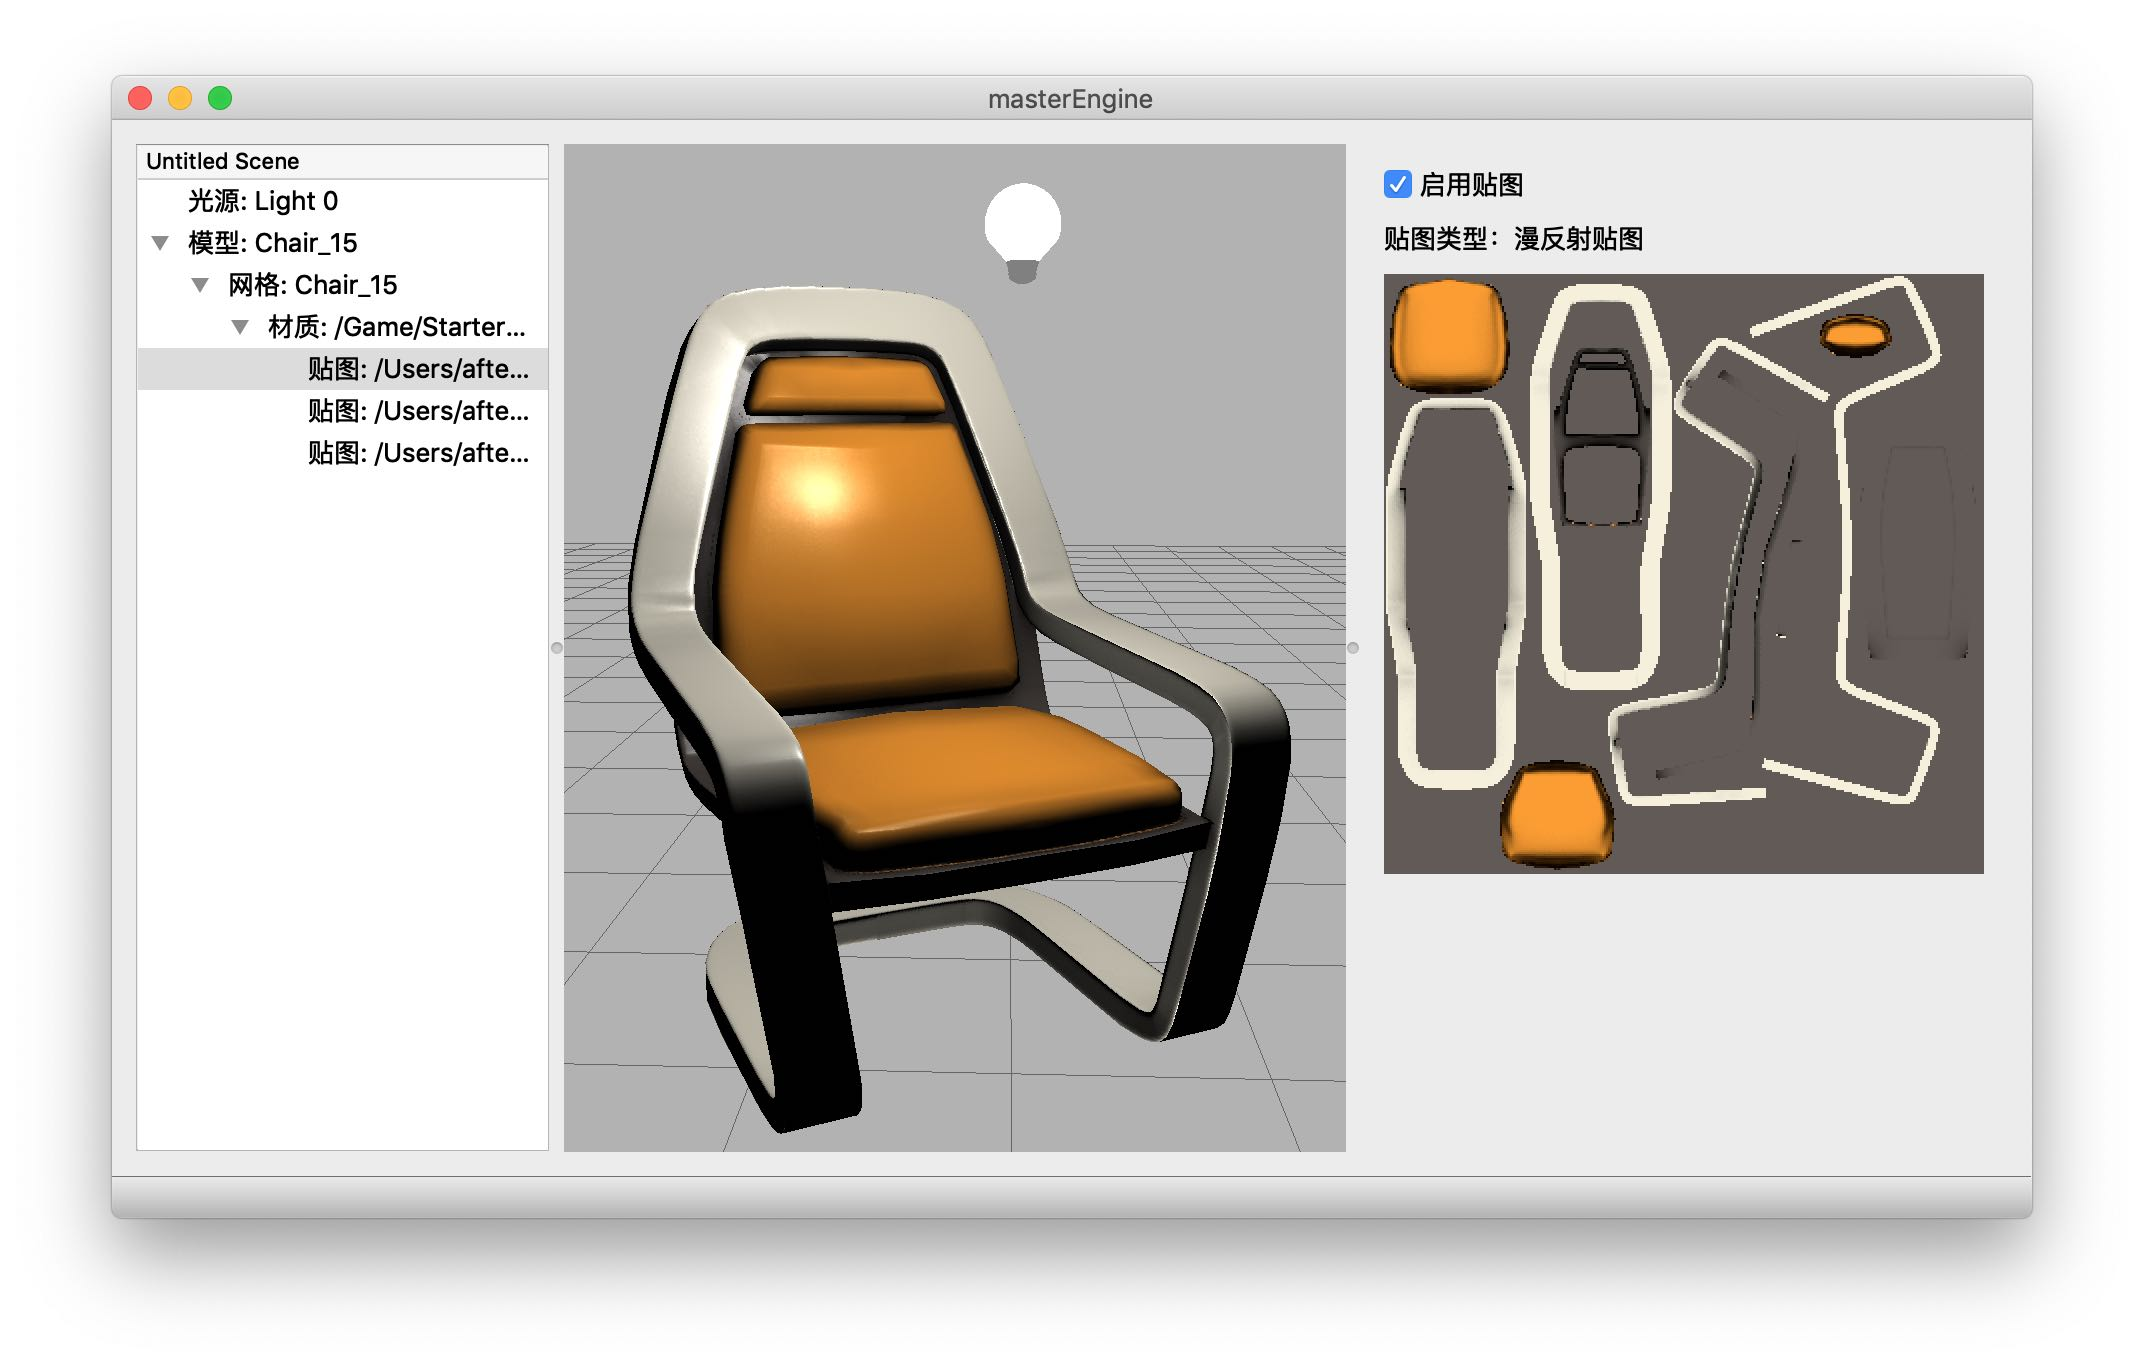
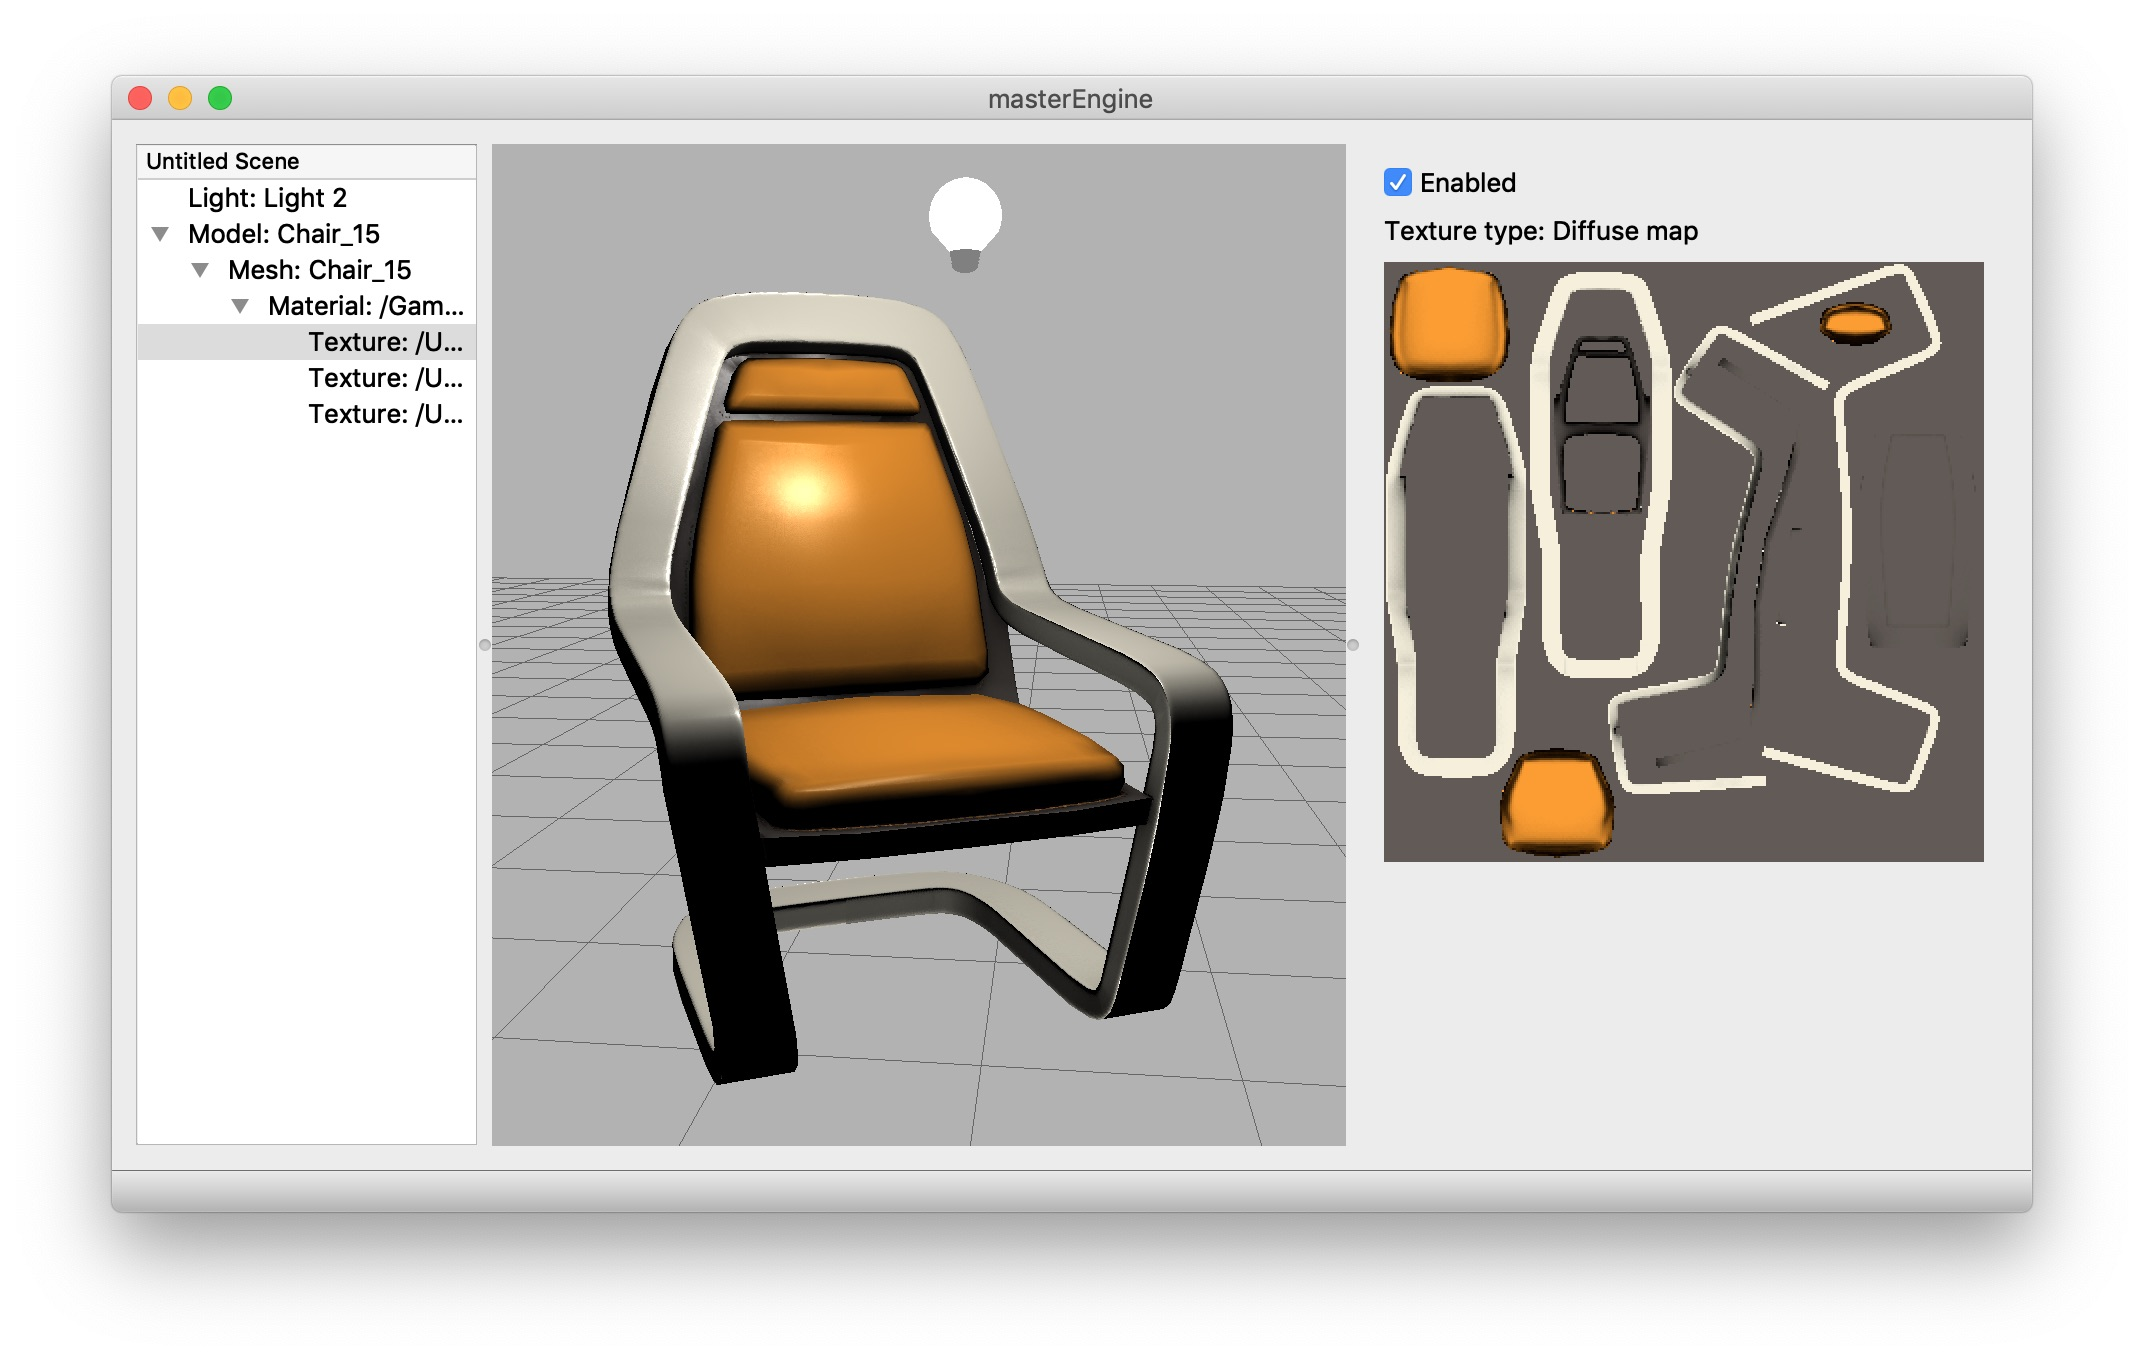
Thu Dec 13 21:04:54 CST 2018

diff --git a/src/UI/MainMenuBar.cpp b/src/UI/MainMenuBar.cpp
@@ -8,6 +8,7 @@
 MainMenuBar::MainMenuBar(QWidget *_parent): QMenuBar(_parent) {
     createActions();
     createMenus();
+    helpCheckForUpdates();
 }
 
 MainMenuBar::~MainMenuBar() {
@@ -34,18 +35,18 @@ MainMenuBar::~MainMenuBar() {
 }
 
 void MainMenuBar::createActions() {
-    actionFileNew = new QAction(QStringLiteral("新场景"), this);
-    actionFileOpen = new QAction(QStringLiteral("打开"), this);
-    actionFileExit = new QAction(QStringLiteral("退出"), this);
+    actionFileNew = new QAction("New", this);
+    actionFileOpen = new QAction("Open", this);
+    actionFileExit = new QAction("Exit", this);
 
-    actionCreateLight = new QAction(QStringLiteral("光源"), this);
-    actionCreateBasicCube = new QAction(QStringLiteral("立方体"), this);
-    actionCreateBasicSphere = new QAction(QStringLiteral("球体"), this);
-    actionCreateBasicPlane = new QAction(QStringLiteral("平面"), this);
+    actionCreateLight = new QAction("Light", this);
+    actionCreateBasicCube = new QAction("Cube", this);
+    actionCreateBasicSphere = new QAction("Sphere", this);
+    actionCreateBasicPlane = new QAction("Plane", this);
 
-    actionOptionEnableLighting = new QAction(QStringLiteral("启用光照"), this);
-    actionOptionEnableGridline = new QAction(QStringLiteral("启用网格线"), this);
-    actionOptionEnableWireFrame = new QAction(QStringLiteral("启用线框模式"), this);
+    actionOptionEnableLighting = new QAction("Enable Lighting", this);
+    actionOptionEnableGridline = new QAction("Enable Gridline", this);
+    actionOptionEnableWireFrame = new QAction("WireFrame Mode", this);
     actionOptionEnableLighting->setCheckable(true);
     actionOptionEnableGridline->setCheckable(true);
     actionOptionEnableWireFrame->setCheckable(true);
@@ -53,8 +54,8 @@ void MainMenuBar::createActions() {
     actionOptionEnableGridline->setChecked(OpenGLConfig::isGridlineEnabled());
     actionOptionEnableWireFrame->setChecked(OpenGLConfig::isWireFrameEnabled());
 
-    actionHelpAbout = new QAction(QStringLiteral("关于"), this);
-    actionHelpCheckUpdate = new QAction(QStringLiteral("检查更新"), this);
+    actionHelpAbout = new QAction("About", this);
+    actionHelpCheckUpdate = new QAction("Check for Update", this);
 
     connect(actionFileNew, SIGNAL(triggered(bool)), this, SLOT(fileNew()));
     connect(actionFileOpen, SIGNAL(triggered(bool)), this, SLOT(fileOpen()));
@@ -74,25 +75,25 @@ void MainMenuBar::createActions() {
 }
 
 void MainMenuBar::createMenus() {
-    menuFile = this->addMenu(QStringLiteral("文件"));
+    menuFile = this->addMenu("File");
     menuFile->addAction(actionFileNew);
     menuFile->addAction(actionFileOpen);
     menuFile->addAction(actionFileExit);
 
-    menuCreate = this->addMenu(QStringLiteral("创建"));
+    menuCreate = this->addMenu("Create");
     menuCreate->addAction(actionCreateLight);
 
-    menuCreateBasicShapes = menuCreate->addMenu(QStringLiteral("基本体"));
+    menuCreateBasicShapes = menuCreate->addMenu("Basic Shapes");
     menuCreateBasicShapes->addAction(actionCreateBasicCube);
     menuCreateBasicShapes->addAction(actionCreateBasicSphere);
     menuCreateBasicShapes->addAction(actionCreateBasicPlane);
 
-    menuOptions = this->addMenu(QStringLiteral("选项"));
+    menuOptions = this->addMenu("Options");
     menuOptions->addAction(actionOptionEnableLighting);
     menuOptions->addAction(actionOptionEnableGridline);
     menuOptions->addAction(actionOptionEnableWireFrame);
 
-    menuHelp = this->addMenu(QStringLiteral("帮助"));
+    menuHelp = this->addMenu("Help");
     menuHelp->addAction(actionHelpAbout);
     menuHelp->addAction(actionHelpCheckUpdate);
 }
@@ -106,7 +107,7 @@ void MainMenuBar::fileNew() {
 }
 
 void MainMenuBar::fileOpen() {
-    QString filepath = QFileDialog::getOpenFileName(this, QStringLiteral("加载模型文件"), "", "All Files (*)");
+    QString filepath = QFileDialog::getOpenFileName(this, "Load Model(s)", "", "All Files (*)");
     Scene::currentScene()->addModel(Loader::loadFromFile(filepath));
     sceneChanged();
 }
@@ -116,6 +117,10 @@ void MainMenuBar::fileExit() {
 }
 
 void MainMenuBar::createLight() {
+    if (Scene::currentScene()->getLights().size() >= 8) {
+        QMessageBox::critical(0, "Error", "The number of lights has reached the upper limit.");
+        return;
+    }
     Scene::currentScene()->addLight(new Light(QVector3D(0, 100, 0)));
     sceneChanged();
 }
@@ -148,11 +153,11 @@ void MainMenuBar::optionWireFrame(bool enabled) {
 }
 
 void MainMenuBar::helpAbout() {
-    QString info = QStringLiteral("当前版本: ") + APP_VERSION + "\n\n";
-    info += QStringLiteral("masterEngine 是一个跨平台的 3D 引擎，基于 Qt，OpenGL 和 Assimp，仅用于学习用途。\n\n");
-    info += QStringLiteral("作者: Alfred Liu\n");
-    info += QStringLiteral("邮箱: afterthat97@foxmail.com");
-    QMessageBox::about(this, QStringLiteral("关于"), info);
+    QString info = "Current version: " + QString(APP_VERSION) + "\n\n";
+    info += "masterEngine is a cross-platform 3D engine for learning purpose, based on Qt, OpenGL and Assimp.\n\n";
+    info += "Author: Alfred Liu\n";
+    info += "Email:  afterthat97@foxmail.com";
+    QMessageBox::about(this, "About", info);
 }
 
 void MainMenuBar::helpCheckForUpdates() {
@@ -168,10 +173,10 @@ void MainMenuBar::replyOfUpdates(QNetworkReply* reply) {
 
     QString latestVersion = jsonObject["tag_name"].toString();
     if (latestVersion != APP_VERSION) {
-        QString info = QStringLiteral("检测到新版本，是否更新？\n\n");
-        info += QStringLiteral("当前版本: ") + APP_VERSION + "\n";
-        info += QStringLiteral("最新版本: ") + latestVersion;
-        if (QMessageBox::question(this, QStringLiteral("更新"), info, QMessageBox::Yes|QMessageBox::No) == QMessageBox::Yes) {
+        QString info = "A new version has been released, do you want to update?\n\n";
+        info += "Current version: " + QString(APP_VERSION) + "\n";
+        info += "Latest version: " + latestVersion;
+        if (QMessageBox::question(this, "Update", info, QMessageBox::Yes|QMessageBox::No) == QMessageBox::Yes) {
             QDesktopServices::openUrl(QUrl(jsonObject["html_url"].toString()));
         }
     }

diff --git a/src/UI/LightPropertyWidget.cpp b/src/UI/LightPropertyWidget.cpp
@@ -3,13 +3,13 @@
 LightPropertyWidget::LightPropertyWidget(Light* _light, QWidget *parent): QWidget(parent) {
     light = _light;
 
-    lightPositionWidget = new Vector3DWidget(QStringLiteral("光源位置"), false, this);
+    lightPositionWidget = new Vector3DWidget("Light Position", false, this);
     lightPositionWidget->setLabelText("X", "Y", "Z");
     lightPositionWidget->setRange(-1000000.0, 1000000.0);
     lightPositionWidget->setSingleStep(1.0);
     lightPositionWidget->setValue(light->getPosition());
 
-    lightColorWidget = new Vector3DWidget(QStringLiteral("光源颜色"), true, this);
+    lightColorWidget = new Vector3DWidget("Light Color", true, this);
     lightColorWidget->setLabelText("R", "G", "B");
     lightColorWidget->setRange(0.0, 1.0);
     lightColorWidget->setSingleStep(0.01);
@@ -75,13 +75,13 @@ void LightPropertyWidget::setLightAttenuationConstant(double value) {
 
 
 AttenuationWidget::AttenuationWidget(QWidget *parent): QGroupBox(parent) {
-    setTitle(QStringLiteral("衰减"));
+    setTitle("Attenuation");
 
-    enableAttenuationCheckBox = new QCheckBox(QStringLiteral("启用衰减"), this);
+    enableAttenuationCheckBox = new QCheckBox("Enabled", this);
 
-    quadraticLabel = new QLabel(QStringLiteral("二次项："), this);
-    linearLabel = new QLabel(QStringLiteral("一次项："), this);
-    constantLabel = new QLabel(QStringLiteral("常数项："), this);
+    quadraticLabel = new QLabel("Quadratic value:", this);
+    linearLabel = new QLabel("Linear value:", this);
+    constantLabel = new QLabel("Constant value:", this);
 
     quadraticSpinBox = new QDoubleSpinBox(this);
     quadraticSpinBox->setSingleStep(0.000001);

diff --git a/src/UI/MaterialPropertyWidget.cpp b/src/UI/MaterialPropertyWidget.cpp
@@ -3,19 +3,19 @@
 MaterialPropertyWidget::MaterialPropertyWidget(Material* _material, QWidget *parent): QWidget(parent) {
     material = _material;
 
-    ambientColorWidget = new Vector3DWidget(QStringLiteral("环境颜色"), true, this);
+    ambientColorWidget = new Vector3DWidget("Ambient Color", true, this);
     ambientColorWidget->setLabelText("R", "G", "B");
     ambientColorWidget->setRange(0.0, 1.0);
     ambientColorWidget->setSingleStep(0.01);
     ambientColorWidget->setValue(material->getAmbientColor());
 
-    diffuseColorWidget = new Vector3DWidget(QStringLiteral("漫反射颜色"), true, this);
+    diffuseColorWidget = new Vector3DWidget("Diffuse Color", true, this);
     diffuseColorWidget->setLabelText("R", "G", "B");
     diffuseColorWidget->setRange(0.0, 1.0);
     diffuseColorWidget->setSingleStep(0.01);
     diffuseColorWidget->setValue(material->getDiffuseColor());
 
-    specularColorWidget = new Vector3DWidget(QStringLiteral("镜面反射颜色"), true, this);
+    specularColorWidget = new Vector3DWidget("Specular Color", true, this);
     specularColorWidget->setLabelText("R", "G", "B");
     specularColorWidget->setRange(0.0, 1.0);
     specularColorWidget->setSingleStep(0.01);
@@ -70,9 +70,9 @@ void MaterialPropertyWidget::setShininess(double value) {
 
 
 ShininessWidget::ShininessWidget(QWidget *parent): QGroupBox(parent) {
-    setTitle(QStringLiteral("反光度"));
+    setTitle("Shininess");
 
-    label = new QLabel(QStringLiteral("反光度："), this);
+    label = new QLabel(QStringLiteral("Shininess:"), this);
     spinBox = new QDoubleSpinBox(this);
     spinBox->setRange(0.0, 1000000.0);
     spinBox->setSingleStep(1.0);

diff --git a/src/UI/MeshPropertyWidget.cpp b/src/UI/MeshPropertyWidget.cpp
@@ -3,19 +3,19 @@
 MeshPropertyWidget::MeshPropertyWidget(Mesh* _mesh, QWidget *parent): QWidget(parent) {
     mesh = _mesh;
 
-    meshPositionWidget = new Vector3DWidget(QStringLiteral("位置"), false, this);
+    meshPositionWidget = new Vector3DWidget("Position", false, this);
     meshPositionWidget->setLabelText("X", "Y", "Z");
     meshPositionWidget->setRange(-1000000.0, 1000000.0);
     meshPositionWidget->setSingleStep(1.0);
     meshPositionWidget->setValue(mesh->getPosition());
 
-    meshRotationWidget = new Vector3DWidget(QStringLiteral("旋转"), true, this);
+    meshRotationWidget = new Vector3DWidget("Rotation", true, this);
     meshRotationWidget->setLabelText("X", "Y", "Z");
     meshRotationWidget->setRange(0.0, 360.0);
     meshRotationWidget->setSingleStep(1.0);
     meshRotationWidget->setValue(mesh->getRotation());
 
-    meshScalingWidget = new Vector3DWidget(QStringLiteral("缩放"), false, this);
+    meshScalingWidget = new Vector3DWidget("Scaling", false, this);
     meshScalingWidget->setLabelText("X", "Y", "Z");
     meshScalingWidget->setRange(0.0, 1000000.0);
     meshScalingWidget->setSingleStep(1.0);

diff --git a/src/UI/SceneTreeView.cpp b/src/UI/SceneTreeView.cpp
@@ -17,15 +17,15 @@ QVariant SceneTreeModel::data(const QModelIndex &index, int role) const {
 
     Object * pointer = static_cast<Object*>(index.internalPointer());
     if (Model* item = dynamic_cast<Model*>(pointer)) {
-        return QVariant(QStringLiteral("模型: ") + item->getName());
+        return QVariant("Model: " + item->getName());
     } else if (Light* item = dynamic_cast<Light*>(pointer)) {
-        return QVariant(QStringLiteral("光源: ") + item->getName());
+        return QVariant("Light: " + item->getName());
     } else if (Mesh* item = dynamic_cast<Mesh*>(pointer)) {
-        return QVariant(QStringLiteral("网格: ") + item->getName());
+        return QVariant("Mesh: " + item->getName());
     } else if (Material* item = dynamic_cast<Material*>(pointer)) {
-        return QVariant(QStringLiteral("材质: ") + item->getName());
+        return QVariant("Material: " + item->getName());
     } else if (Texture* item = dynamic_cast<Texture*>(pointer)) {
-        return QVariant(QStringLiteral("贴图: ") + item->getName());
+        return QVariant("Texture: " + item->getName());
     }
 }
 

diff --git a/src/OpenGL/OpenGLManager.cpp b/src/OpenGL/OpenGLManager.cpp
@@ -18,8 +18,9 @@ void OpenGLManager::cleanOpenGLTexture() {
     texture_map.clear();
 }
 
+// Convert generic Mesh to OpenGLMesh
 OpenGLMesh * OpenGLManager::getOpenGLMesh(Mesh * mesh) {
-    if (mesh_map.find(mesh->getID()) == mesh_map.end()) {
+    if (mesh_map.find(mesh->getID()) == mesh_map.end()) { // Not found
         OpenGLMesh* openGLMesh = new OpenGLMesh(mesh);
         vector<ShaderAttributeConfig> config = OpenGLConfig::getShaderAttributeConfig();
         for (uint32_t i = 0; i < config.size(); i++)
@@ -29,8 +30,9 @@ OpenGLMesh * OpenGLManager::getOpenGLMesh(Mesh * mesh) {
     return mesh_map[mesh->getID()];
 }
 
+// Convert generic Texture to OpenGLTexture
 OpenGLTexture * OpenGLManager::getOpenGLTexture(Texture * texture) {
-    if (texture_map.find(texture->getID()) == texture_map.end()) {
+    if (texture_map.find(texture->getID()) == texture_map.end()) { // Not found
         OpenGLTexture* openGLTexture = new OpenGLTexture(texture);
         texture_map[texture->getID()] = openGLTexture;
     }

diff --git a/src/UI/TexturePropertyWidget.cpp b/src/UI/TexturePropertyWidget.cpp
@@ -3,16 +3,16 @@
 TexturePropertyWidget::TexturePropertyWidget(Texture* _texture, QWidget *parent): QWidget(parent) {
     texture = _texture;
 
-    enableTextureCheckBox = new QCheckBox(QStringLiteral("启用贴图"), this);
+    enableTextureCheckBox = new QCheckBox("Enabled", this);
     enableTextureCheckBox->setChecked(texture->isEnabled());
 
     typeLabel = new QLabel(this);
     if (texture->getType() == Texture::Diffuse) {
-        typeLabel->setText(QStringLiteral("贴图类型：漫反射贴图"));
+        typeLabel->setText("Texture type: Diffuse map");
     } else if (texture->getType() == Texture::Specular) {
-        typeLabel->setText(QStringLiteral("贴图类型：镜面反射贴图"));
+        typeLabel->setText("Texture type: Specular map");
     } else if (texture->getType() == Texture::Normal) {
-        typeLabel->setText(QStringLiteral("贴图类型：法线贴图"));
+        typeLabel->setText("Texture type: Normal map");
     }
 
     imageLabel = new QLabel(this);

diff --git a/src/UI/MainWindow.cpp b/src/UI/MainWindow.cpp
@@ -48,7 +48,7 @@ void MainWindow::dropEvent(QDropEvent * event) {
 
 QWidget * MainWindow::createEmptyPropertyWidget() {
     QWidget * emptyPropertyWidget = new QWidget(this);
-    QLabel * label = new QLabel(QStringLiteral("空属性页面"), this);
+    QLabel * label = new QLabel("Empty property page", this);
 
     QVBoxLayout * mainLayout = new QVBoxLayout;
     mainLayout->setAlignment(Qt::AlignCenter);

diff --git a/src/masterEngine.cpp b/src/masterEngine.cpp
@@ -16,7 +16,7 @@ int main(int argc, char *argv[]) {
 
     MainWindow w;
     w.resize(960, 540);
-    w.setWindowTitle(APP_NAME);
+    w.setWindowTitle("masterEngine");
     w.show();
 
     return a.exec();
